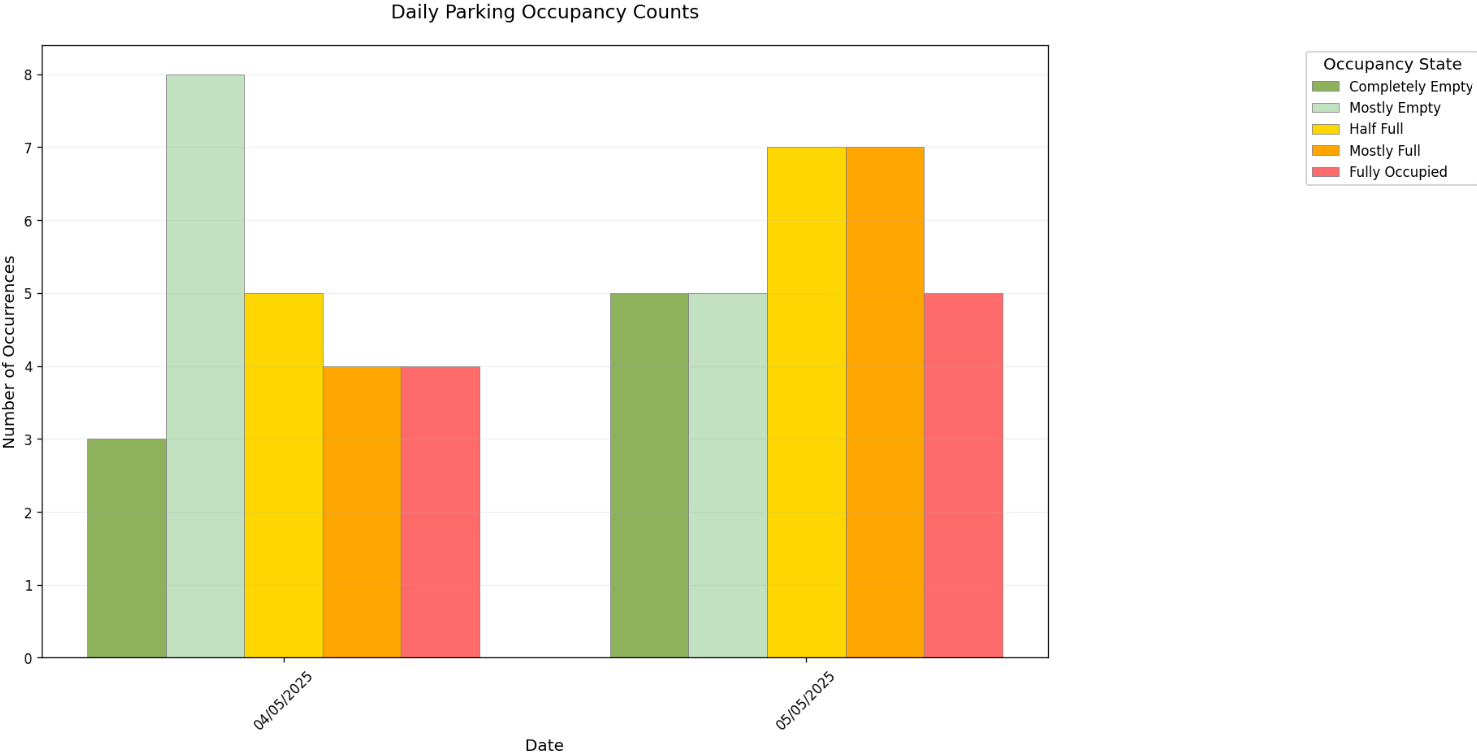
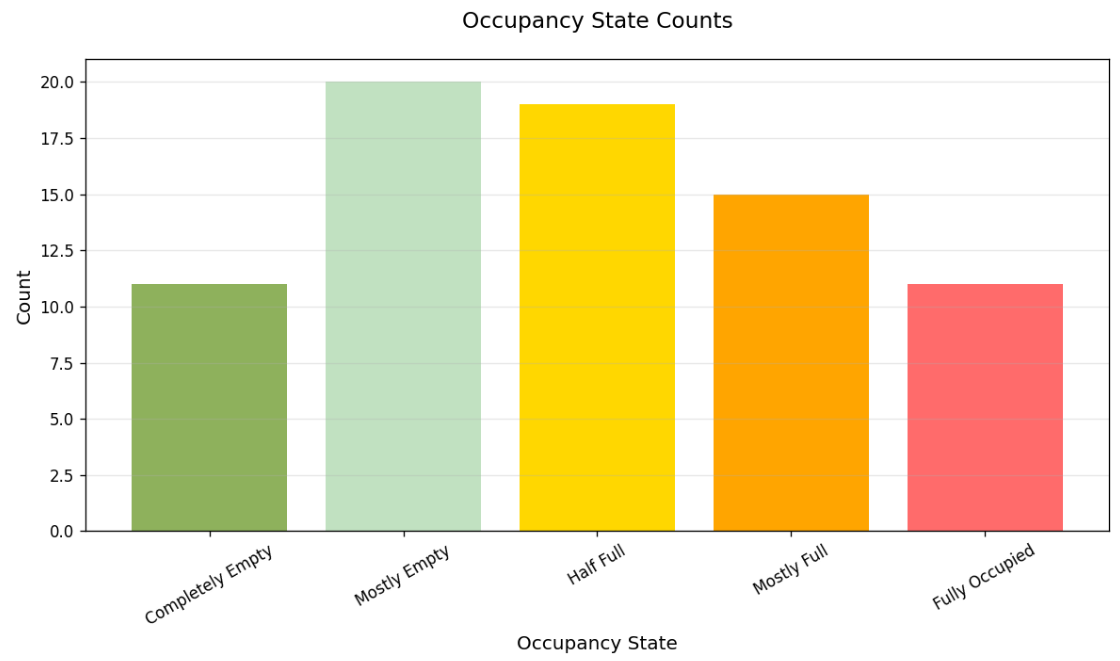
Add resources

diff --git a/plot_from_blob.py b/plot_from_blob.py
@@ -3,8 +3,7 @@ import base64
 import pandas as pd
 import matplotlib.pyplot as plt
 from azure.storage.blob import ContainerClient
-from matplotlib.dates import DayLocator, DateFormatter
-from matplotlib.ticker import MaxNLocator
+from matplotlib.dates import DateFormatter
 import numpy as np
 
 # Load configuration
@@ -27,7 +26,7 @@ for blob in client.list_blobs():
                 msg = json.loads(line)
                 body_b64 = msg["Body"] + "==="[:len(msg["Body"]) % 4]
                 body = json.loads(base64.b64decode(body_b64).decode('utf-8'))
-                
+
                 records.append({
                     "timestamp": pd.to_datetime(body["timestamp"]),
                     "temperature": float(body["temperature"]),
@@ -43,89 +42,62 @@ df = pd.DataFrame(records)
 # Display ALL records in terminal
 pd.set_option('display.max_rows', None)
 print(f"\nTotal records processed: {len(df)}")
-print("\nFirst 50 records:")
-print(df.head(50).to_string()) 
-print("\n...")
 
-# Plot configuration for Temperature
-def plot_temperature(data):
-    plt.figure(figsize=(14, 7))
-    ax = plt.gca()
-    
-    data.sort_values("timestamp", inplace=True)
-    ax.plot(data["timestamp"], 
-            data["temperature"], 
-            marker='o', 
-            linestyle='-', 
-            color='blue',
-            label='Temperature')
-    
-    # Format axes
-    ax.xaxis.set_major_locator(DayLocator())
-    ax.xaxis.set_major_formatter(DateFormatter('%d/%m/%Y'))
-    plt.xticks(rotation=45, ha='right')
-    plt.xlabel("Date")
-    plt.ylabel("Temperature (°C)")
-    plt.title("Temperature Over Time")
-    plt.grid(True, alpha=0.3)
-    plt.legend()
-    
-    plt.tight_layout()
-    plt.savefig("temperature_plot.png", dpi=120)
-    print("\nTemperature plot saved as 'temperature_plot.png'")
-
-# Plot configuration for Occupancy (Count-based)
-def plot_occupancy(data):
-    plt.figure(figsize=(16, 8))  
-    ax = plt.gca()
-    
- 
-    data['date'] = data['timestamp'].dt.date
-    daily_counts = data.groupby(['date', 'occupancy']).size().unstack().fillna(0)
-    
- 
-    states = ['completely_empty', 'mostly_empty', 'half_full', 'mostly_full', 'fully_occupied']
-    colors = ['#8EB15C', '#C1E1C1', '#FFD700', '#FFA500', '#FF6B6B']  
-    
-   
-    bar_width = 0.15
-    dates = pd.to_datetime(daily_counts.index)
-    x = np.arange(len(dates))
-    
-    for i, state in enumerate(states):
-        if state in daily_counts.columns:
-            ax.bar(x + i*bar_width, daily_counts[state], 
-                   width=bar_width, color=colors[i], 
-                   label=state.replace('_', ' ').title(),
-                   edgecolor='grey', linewidth=0.5)
-    
-    # Format axes
-    ax.set_xticks(x + bar_width*2)
-    ax.set_xticklabels([date.strftime('%d/%m/%Y') for date in dates], rotation=45)
-    ax.set_xlabel("Date", fontsize=12)
-    ax.set_ylabel("Number of Occurrences", fontsize=12)
-    ax.set_title("Daily Parking Occupancy Counts", fontsize=14, pad=20)
-    ax.grid(True, alpha=0.2, axis='y')
-    
-    # Improved legend placement and style
-    legend = ax.legend(
-        bbox_to_anchor=(1.25, 1),  
-        loc='upper left',
-        framealpha=1,
-        title='Occupancy State',
-        title_fontsize=12,
-        fontsize=10
-    )
-    
-    
-    plt.tight_layout()
-    plt.savefig("occupancy_plot.png", dpi=120, bbox_inches='tight')
-    print("Occupancy counts plot saved as 'occupancy_plot.png'")
-
-# Generate and display plots
+# If not empty, continue with plots
 if not df.empty:
-    plot_temperature(df)
-    plot_occupancy(df)
-    plt.show()  
+    df.sort_values("timestamp", inplace=True)
+    df_latest = df.tail(22).copy()
+    df_latest["synthetic_time"] = pd.date_range(start=pd.Timestamp.now(), periods=22, freq="10s")
+
+    # Show latest 22 records
+    print("\nLatest 22 records:")
+    print(df_latest.to_string(index=False))
+
+    # Temperature Plot (keep as is)
+    def plot_temperature(data):
+        plt.figure(figsize=(14, 7))
+        ax = plt.gca()
+        ax.plot(data["synthetic_time"], data["temperature"], marker='o', linestyle='-', color='blue', label='Temperature')
+
+        ax.xaxis.set_major_formatter(DateFormatter('%H:%M:%S'))
+        plt.xticks(rotation=45, ha='right')
+        plt.xlabel("Time ")
+        plt.ylabel("Temperature (°C)")
+        plt.title("Temperature Over Synthetic Time")
+        plt.grid(True, alpha=0.3)
+        plt.legend()
+        plt.tight_layout()
+        plt.savefig("temperature_plot.png", dpi=120)
+        print("\nTemperature plot saved as 'temperature_plot.png'")
+
+    # Occupancy Bar Chart (counts per category, original style)
+    def plot_occupancy_counts(data):
+        plt.figure(figsize=(10, 6))
+        occupancy_order = ['completely_empty', 'mostly_empty', 'half_full', 'mostly_full', 'fully_occupied']
+        color_map = {
+            'completely_empty': '#8EB15C',
+            'mostly_empty': '#C1E1C1',
+            'half_full': '#FFD700',
+            'mostly_full': '#FFA500',
+            'fully_occupied': '#FF6B6B'
+        }
+
+        counts = data['occupancy'].value_counts().reindex(occupancy_order, fill_value=0)
+
+        plt.bar(counts.index.str.replace('_', ' ').str.title(), counts.values,
+                color=[color_map[o] for o in counts.index])
+        plt.xlabel("Occupancy State", fontsize=12)
+        plt.ylabel("Count", fontsize=12)
+        plt.title("Occupancy State Counts", fontsize=14, pad=20)
+        plt.xticks(rotation=30)
+        plt.grid(axis='y', alpha=0.3)
+        plt.tight_layout()
+        plt.savefig("occupancy_plot.png", dpi=120)
+        print("Occupancy plot saved as 'occupancy_plot.png'")
+
+    # Plot both
+    plot_temperature(df_latest)
+    plot_occupancy_counts(df)
+
 else:
-    print("No valid data to plot")
+    print("No valid data to plot.")

diff --git a/README.md b/README.md
@@ -194,6 +194,11 @@ def analyze_parking(image_data):
 
 *AI classifies parking states with high accuracy, working best for empty spots and needing minor improvements for full occupancy detection.*
 
+### **Raw Image**
+![Raw](./resources/raw.jpg)
+
+### **Annotated Image**
+![Annotated](./resources/annotated.jpg)
 ---
 
 ## 🗄 IoT Storage  
